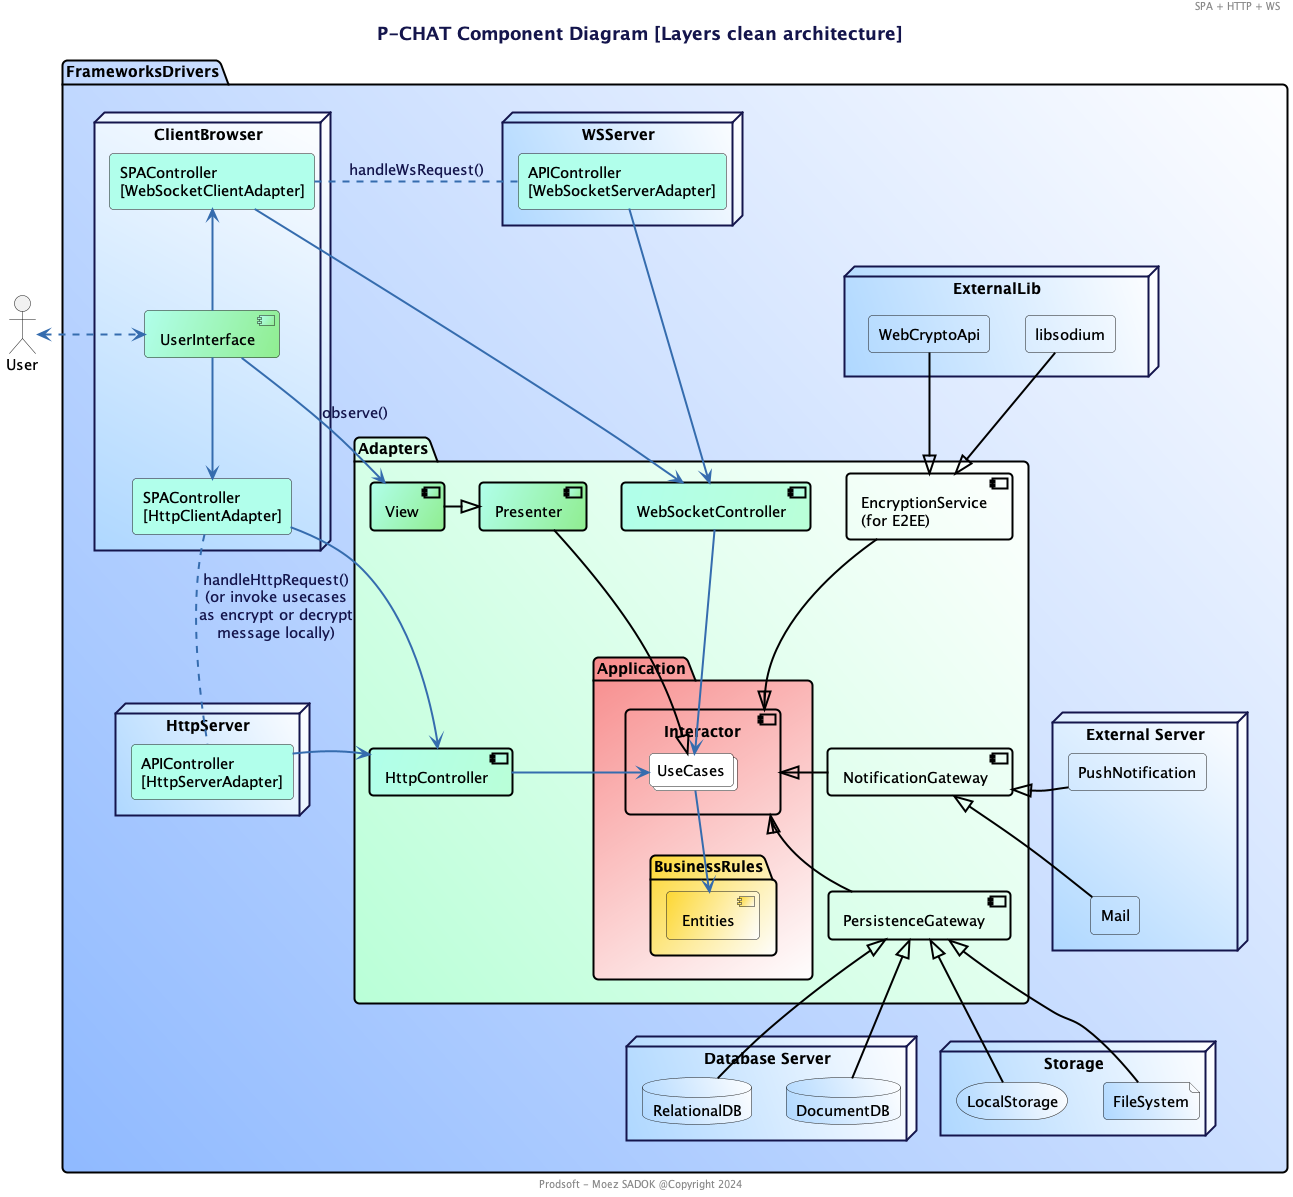
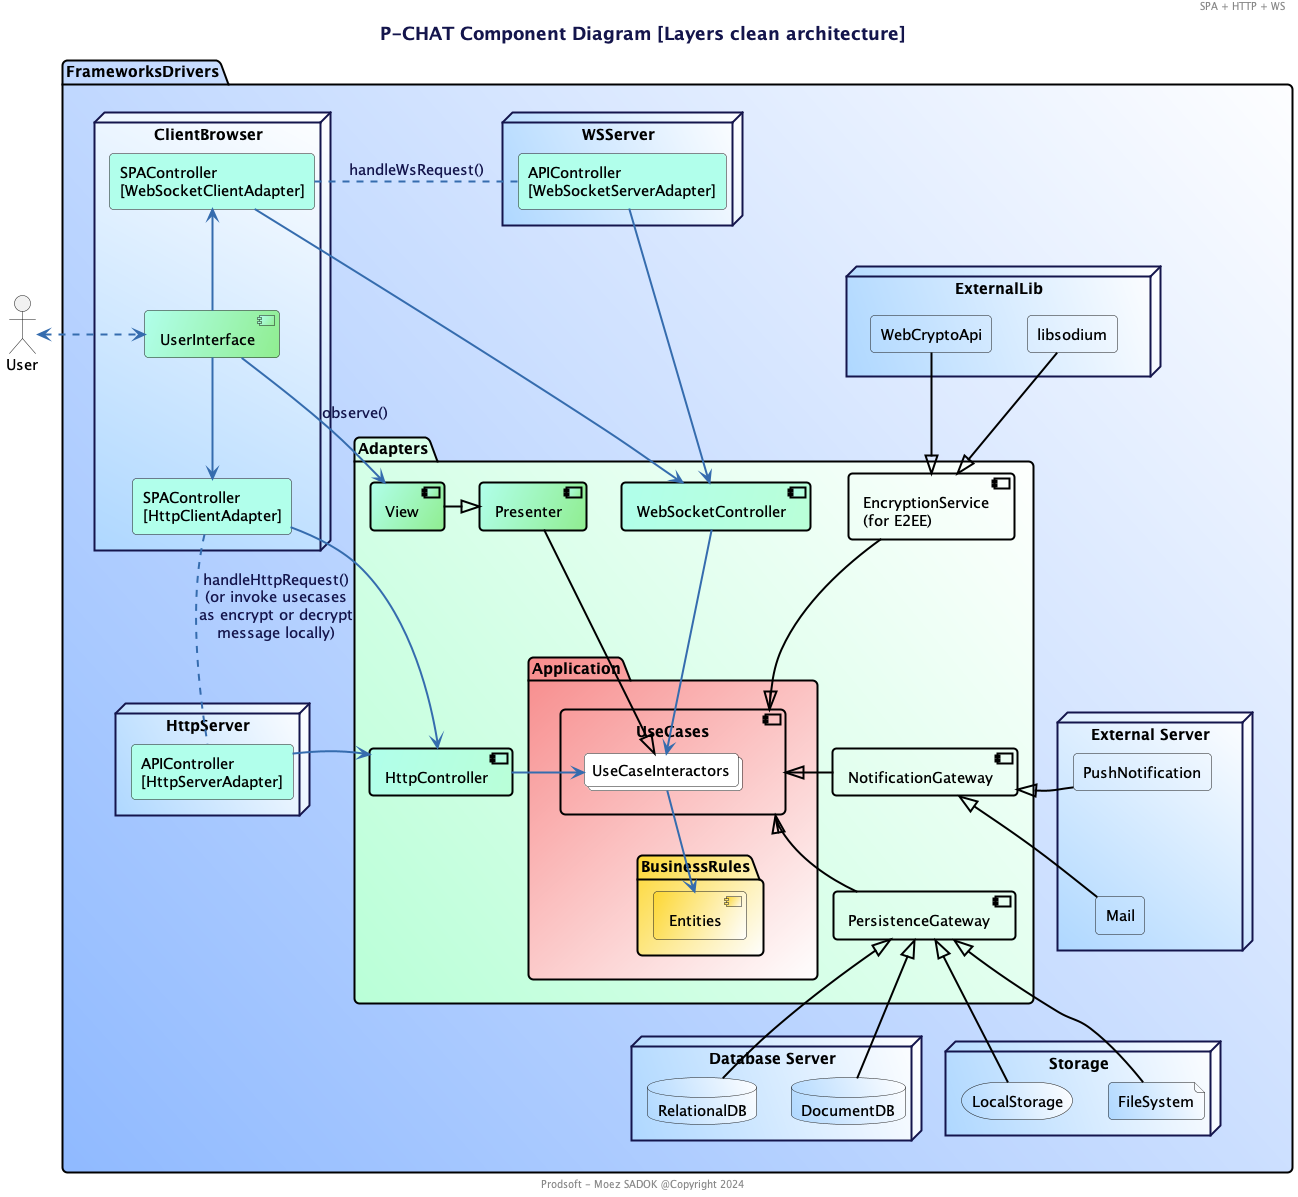
Update blog and docs

diff --git a/blog.html b/blog.html
@@ -1,0 +1,144 @@
+<h1>Building P‑CHAT: A Real-Time Chat App with Clean Architecture</h1>
+
+<p><em>An in-depth look at P‑CHAT’s structure, using Clean Architecture to build a scalable, testable, and secure chat system.</em></p>
+<hr/>
+
+<h2>🔰 Introduction</h2>
+<p><strong>P‑CHAT</strong> is a proof-of-concept for a real-time chat application developed with Clean Architecture principles. It combines a modern frontend (SPA) with a NestJS backend and supports HTTP, WebSocket, and end-to-end encryption (E2EE).</p>
+<p>The source code is available here: <a href="https://github.com/moez-sadok/chat-clean-architecture" target="_blank">github.com/moez-sadok/chat-clean-architecture</a></p>
+
+<h2>📚 References</h2>
+<p>
+The P‑CHAT architecture is inspired by the foundational principles described by <strong>Robert C. Martin (Uncle Bob)</strong>:
+</p>
+
+<p>
+🔗 <a href="https://blog.cleancoder.com/uncle-bob/2012/08/13/the-clean-architecture.html" target="_blank">
+The Clean Architecture – Uncle Bob (cleancoder.com)
+</a>
+<img src="https://blog.cleancoder.com/uncle-bob/images/2012-08-13-the-clean-architecture/CleanArchitecture.jpg" >
+</p>
+
+<h2>🧱 Component Diagram & Architecture Layers</h2>
+
+<p>The P‑CHAT architecture follows Clean Architecture by organizing code into clear concentric layers:</p>
+<img width="90%" src="https://raw.githubusercontent.com/moez-sadok/chat-clean-architecture/refs/heads/main/out/docs/design/app-components-diagram/app-components-diagram.png">
+
+
+<p>📌 Note: Color usage in the diagram follows a strict legend to visually separate Clean Architecture layers. This color coding respects the Clean Architecture convention and is consistently applied across all diagrams in the repository.</p>
+
+<ul>
+  <li><strong>Entities</strong> – Core business logic (e.g. Message, User, Room)</li>
+  <li><strong>Use Cases</strong> – Application-specific logic (e.g. send message, join room)</li>
+  <li><strong>Adapters</strong> – Controllers, Presenters, Gateways, Views</li>
+  <li><strong>Frameworks & Drivers</strong> – External technologies: database, storage, web server, crypto libraries</li>
+</ul>
+<p>This separation helps enforce dependency rules and keeps the system modular, scalable, and testable.</p>
+
+
+<h3>Entities</h3>
+
+
+<p>Entities like <code>Message</code>, <code>Participant</code>, and <code>Room</code> are the most abstract part of the application. They are free of dependencies and express core business rules.</p>
+<img width="90%" src="https://raw.githubusercontent.com/moez-sadok/chat-clean-architecture/refs/heads/main/out/docs/design/business-rules-entities-digram/business-rules-entities-digram.png"></omg>
+
+<p>📌 <strong>Design Note:</strong> The system uses the <strong>Mediator pattern</strong>, where the <strong>Room</strong> acts as the mediator coordinating message flow between <strong>Participants</strong> (colleagues).</p>
+
+<h2>🧠 Application Core (Use Cases)</h2>
+
+<p>
+In this architecture, each business operation is encapsulated within a dedicated <strong>UseCase Interactor</strong>, which serves as the execution unit for a specific application behavior — such as sending a message, joining a room, or get user rooms.
+</p>
+
+<img width="90%" src="https://raw.githubusercontent.com/moez-sadok/chat-clean-architecture/refs/heads/main/out/docs/design/app-componentes-usecase-adapters/app-componentes-usecase-adapters.png"></omg>
+
+<p><strong>📌 Note:</strong> While using the <code>I</code> prefix for interfaces (e.g., <code>IRepository</code>, <code>IPresenter</code>) is not generally recommended in modern software conventions, it is applied here intentionally to clarify the distinction between abstractions and implementations—especially in diagrams and educational contexts.</p>
+
+
+<p>
+The <strong>Usecase Interactor</strong> acts as the central coordinator, implementing the use case (InputPort / Requester) by:
+</p>
+<ul>
+  <li>Validating inputs received from controllers (HTTP or WebSocket),</li>
+  <li>Accessing and persisting data through the abstract <code>PersistenceGateway</code> (IRepository),</li>
+  <li>Applying domain logic by interacting with core <code>Entities</code>,</li>
+  <li>Formatting results via the <code>Presenter</code> (OututPort), which transforms the output into a UI-ready format consumed by the <code>View</code>.</li>
+</ul>
+
+<p>
+This design ensures that use cases remain independent of frameworks and interfaces, relying only on abstract ports. It reflects Uncle Bob’s Clean Architecture principle where the interactor 
+<em>“controls the flow of data to and from the entities, and directs the entities to use their enterprise-wide business rules.”</em>
+</p>
+
+<p>
+The result is a modular, testable, and extensible structure where the application layer is fully decoupled from infrastructure concerns like storage, network, or UI rendering.
+</p>
+
+
+
+<h3>Input and Output Boundaries</h3>
+<p>Controllers send data to the use cases through input boundaries, while output is returned through presenters. This enforces direction of dependencies from the outside-in.</p>
+
+<h2>🌐 HTTP Communication</h2>
+<p>P‑CHAT uses HTTP for key actions such as:</p>
+<ul>
+  <li>User login, logout, and authentication</li>
+  <li>Fetching room or message history</li>
+  <li>Sending messages (by default or when WebSocket is unavailable)</li>
+</ul>
+
+<p>The flow:</p>
+<ol>
+  <li>
+    The <strong>SPA client</strong> initiates a request using the <code>HttpClientAdapter</code>, typically via a service or effect (e.g. login, send message).
+  </li>
+  <li>
+    The request is received by the NestJS <strong><code>HttpServerAdapter</code></strong>, which serves as the transport-layer entry point on the backend.
+  </li>
+  <li>
+    The corresponding <strong>HTTP controller</strong> parses the incoming request and delegates the execution to the appropriate <code>UseCase</code> within the application layer.
+  </li>
+  <li>
+    Once the <code>UseCase</code> completes, a <strong><code>Presenter</code></strong> formats the result into a <code>ViewModel</code>—a structure optimized for frontend rendering.
+  </li>
+  <li>
+    The frontend’s <strong><code>View</code></strong> observes changes in the ViewModel, triggering UI updates, and the response is received via the <code>HttpClientAdapter</code>.
+  </li>
+</ol>
+
+<h2>🔄 WebSocket Communication</h2>
+WebSockets power full-duplex messaging:
+
+- Clients use WebSocketClientAdapter
+- Server responds via WebSocketServerAdapter
+- Use cases handle the logic via WebSocketController
+
+<h2>🔐 End-to-End Encryption (E2EE)</h2>
+<p>Before a message leaves the client, it is encrypted using browser-native APIs such as <code>WebCryptoApi</code> or third-party libs like <code>libsodium</code>.</p>
+<p>The <code>EncryptionService</code> handles this on the client side. The backend simply stores and routes encrypted data — it never sees the decrypted content.
+This design ensures strong privacy: only sender and recipient can decrypt messages.</p>
+
+<h2>🗃 Storage, Cache & Notifications</h2>
+<ul>
+  <li><strong>MongoDB/Sql</strong> is used for chat and user data persistence</li>
+  <li><strong>Redis</strong> supports state, pub/sub, and caching</li>
+  <li><strong>NotificationGateway</strong> connects to email or push systems</li>
+  <li><strong>LocalStorage</strong> and <strong>FileSystem</strong> are used for offline caching and storing local certificate files</li>
+</ul>
+
+<h2>🧩 Clean Architecture Benefits</h2>
+<ul>
+  <li><strong>Testability</strong>: You can test use cases without a server or database</li>
+  <li><strong>Independence</strong>: You can change the database, UI, or framework without touching core logic</li>
+  <li><strong>Modularity</strong>: Each component is isolated and follows SRP (Single Responsibility Principle)</li>
+  <li><strong>Flexibility</strong>: Add support for new transports like GraphQL, gRPC, or CLI easily</li>
+</ul>
+
+
+<h2>✅ Conclusion</h2>
+<p><strong>P‑CHAT</strong> proves that Clean Architecture is practical for modern, real-time apps with WebSockets, HTTP, and layered infrastructure.</p>
+<p>This foundation supports growth, team collaboration, and confidence in refactoring. By keeping business logic decoupled, the system is adaptable and testable at every layer.</p>
+
+<hr/>
+<p><strong>About the Author</strong><br/>
+Moez SADOK – Founder at <strong>Prodsoft</strong>, passionate about scalable software, modular design, and Clean Architecture in real-world projects.</p>

diff --git a/README.md b/README.md
@@ -8,7 +8,7 @@
 
 2. [Scope](#scope)
 
-   - [2.1 Use case diagram](use-case-diagram)
+   - [2.1 Use case diagram](#use-case-diagram)
    - [2.2 Main chat flow](#main-chat-flow)
 
 3. [Features](#features)
@@ -18,7 +18,7 @@
      - [b. BDD](#uc1-bbd)
      - [c. Specification](#uc1-specification)
      - [d. Sequence diagram](#uc1-sequence-diagram)
-     - [f. Wireframe](#uc1-server-cloud-cluster)
+     - [f. Wireframe](#uc1-wireframe)
 
 4. [Architecture ](#Architecture)
 
@@ -61,7 +61,9 @@ In addition, this POC aims to showcase the application of key software engineeri
 
 - UML diagrams for clear and maintainable documentation
 
-⚠ Note: This project is still actively being refactored and improved. Updates are made regularly to enhance code quality, structure, and architectural consistency.
+⚠ Note: This project is still actively being refactored and improved. Updates are made regularly to enhance documentation, code quality, structure, and architectural consistency.
+
+👉 See this article on our blog: [P‑CHAT and Clean Architecture](https://prodsoft.fr/en/2024/09/16/pchat-clean-architecture/)
 
 # 2. Scope <a id="scope"></a>
 
@@ -71,7 +73,7 @@ Manages chat rooms, message exchange, and real-time communication.
 <!-- Page-break For PDF generation -->
 <div style="page-break-after: always;"></div>
 
-## 2.1 Use case diagram
+## 2.1 Use case diagram <a id="use-case-diagram"></a>
 
 ![Use case diagram!](out/docs/design/app-use-cases/app-use-cases.png 'Global use case diagram')
 
@@ -83,7 +85,7 @@ Manages chat rooms, message exchange, and real-time communication.
 <!-- Page-break For PDF generation -->
 <div style="page-break-after: always;"></div>
 
-## 2.2 Main chat flow
+## 2.2 Main chat flow <a id="main-chat-flow"></a>
 
 This diagram represents a typical interaction scenario in the P-CHAT system involving three users within the same chat room. User1 and User2 are connected, while User3 is disconnected.
 
@@ -96,16 +98,16 @@ This diagram represents a typical interaction scenario in the P-CHAT system invo
 
 The core feature of the P-CHAT application is message sending within a chat room. This section provides a detailed overview of how the system handles this functionality from both a user and system perspective.
 
-## 3.1 Send message
+## 3.1 Send message <a id="uc1-send-message"></a>
 
-### a. Usecase diagram
+### a. Usecase diagram  <a id="uc1-sub-usecase-diagram"></a>
 
 ![Send message - Use case diagram!](out/docs/features/send-message/send-message-usecase-diagram/send-message-usecase-diagram.png 'Send message - Use case diagram')
 
 <!-- Page-break For PDF generation -->
 <div style="page-break-after: always;"></div>
 
-### b. Bdd
+### b. Bdd  <a id="uc1-bdd"></a>
 
 ```bash
 Feature: Send Message
@@ -136,50 +138,50 @@ Scenario: Offline receiver (disconnected)
 <!-- Page-break For PDF generation -->
 <div style="page-break-after: always;"></div>
 
-### c. Specification
+### c. Specification  <a id="uc1-specification"></a>
 
 ![Send message - Specification!](out/docs/features/send-message/send-message-specifications/send-message-specifications.png 'Send message - Specification')
 
 <!-- Page-break For PDF generation -->
 <div style="page-break-after: always;"></div>
 
-### d. Sequence diagram
+### d. Sequence diagram  <a id="uc1-sequence-diagram"></a>
 
 ![Send message - Sequence diagram!](out/docs/features/send-message/send-message-sequence/send-message-sequence.png 'Send message - Sequence diagram')
 
 <!-- Page-break For PDF generation -->
 <div style="page-break-after: always;"></div>
 
-### f. Wireframe
+### f. Wireframe <a id="uc1-wireframe"></a> 
 
 ![Send message - Wireframe!](out/docs/features/send-message/send-message-wireframe/MessageForm_Wireframe.png 'Send message - Wireframe')
 
 <!-- Page-break For PDF generation -->
 <div style="page-break-after: always;"></div>
 
-# Architecture 
+# Architecture  <a id="Architecture"></a> 
 
-   ## 4.1 Entites
+   ## 4.1 Entites <a id="entites"></a>
 
    ![Entites!](out/docs/design/business-rules-entities-digram/business-rules-entities-digram.png 'Entites')
 
 <!-- Page-break For PDF generation -->
 <div style="page-break-after: always;"></div>
 
-   ## 4.2 DB Relationships
+   ## 4.2 DB Relationships  <a id="db-relationships"></a>
 
    ![DB Relationships!](out/docs/design/data-relations-tables-digram/data-relations-tables-digram.png 'DB Relationships')
 
 <!-- Page-break For PDF generation -->
 <div style="page-break-after: always;"></div>
 
-   ##  4.3 Component diagram
-
-   - a. Component diagram
+   ##  4.3 Component diagram <a id="component-diagram"></a>
+ 
+   - a. Component diagram <a id="app-omponent-diagram"></a>
 
    ![Component diagram](out/docs/design/app-components-diagram/app-components-diagram.png 'Component diagram')
 
-   - b. Component interaction - Sequence diagram
+   - b. Component interaction - Sequence diagram <a id="interaction-component-diagram"></a>
 
  ![Component interaction diagram](out/docs/design/app-components-interaction-sequence-diagram-v1/app-components-interaction-sequence-diagram-v1.png 'Component interaction diagram')
 
@@ -244,7 +246,7 @@ All business rules are decoupled from the outside world.
 npm i
 ```
 
-### 5.4 Run locally
+### 5.4 Run locally  <a id="run-locally"></a>
 
 With client/server (websockt/http), open in different private tabs
 
@@ -291,7 +293,7 @@ Using bun:
    autocannon -c 10 -a 1000 -m POST http://localhost:3333/api/send-message --header 'Content-Type: application/json' --body '{ "roomId": "0", "userId": "1", "message": "perf message" }'
    ```
 
-### 5.6 Redis as adapter
+### 5.6 Redis as adapter  <a id="redis-as-adapter"></a>
 
 Many other tools harness the power of port/adapter architecture. For instance, Redis enables the creation and connection of a multi-chat server to support millions of connected users with just three lines of code.
 
@@ -315,7 +317,7 @@ To install Redis, please check the official Redis website and see also [NestJS W
 redis-server
 ```
 
-### 5.7 Code Scaffolding
+### 5.7 Code Scaffolding  <a id="code-scaffolding"></a>
 
 Using Nx console vs code extension or cli:
 
@@ -328,10 +330,6 @@ npx nx generate @nx/nest:application chat/chat-server-main-api --frontendProject
 Generate lib:
 
 ```bash
-npx nx generate @nx/workspace:library chat/entreprise-business-rules/notifiyer
-npx nx generate @nx/workspace:library chat/application-business-rules/network
-npx nx generate @nx/workspace:library chat/adapters/network
-
 npx nx generate @nx/js:library libs/chat/drivers/socketIo/client
 npx nx generate @nx/js:library libs/chat/drivers/socketIo/server
 ```

diff --git a/todo.md b/todo.md
@@ -1,26 +1,42 @@
-
 ## TODO
-- Enhance documentation
-- Add mongo db or mysql (as second db test)
-- Add graphql  (as second api test)
-- Add react for the ui (as second ui Framework test)
-- Add uml diagrams 
-- Make an  adapter for websoket socket (client) (for IClientUser) CleintEmmiter and apply new design as chat service (apply the new target uml diagram)
+
+- Enhance documentation. (DDD style)
+- Enhance naming and structure (UseCaseInteractor --|> UseCase), no interactor folder on usecases
+- Apply the complete flow (`UseCase -> Presenter`) as discussed below for all use cases.
+- Add MongoDB or MySQL as a second database for testing.
+- Add GraphQL as a second API for testing.
+- Add a React version of the UI (as an alternative front-end framework).
+- Add UML diagrams.
+- Add End-to-End Encryption (E2EE).
+- Implement a WebSocket client adapter (`IClientUser`, `ClientEmitter`, `ChatService`) and apply the new design based on the updated chat service (see the target UML diagram.)
+- Review NX use (packages restriction by layers)
 
 ## DONE
-- Split interactor facade to usecases (ISP & SRP)
-- Add a use case from scratch using TDD (testing using jest)
-- Make redis adapter optional (use native ws to run in stackblitz)
-- Replace the main config in nestjs api by the DI
-- Replace the front-end interactor (by controller / presenter facade)
-- Comment unused interfaces methods
 
-## Disscutions
-- Check the communication model for http: 2 solutions ( app/controller facade (used in the back-end) book-p237 or relation controller / presenter (used in the front-end part) book-p72) (both are used) https://softwareengineering.stackexchange.com/questions/357052/clean-architecture-use-case-containing-the-presenter-or-returning-data
+- Clean old layers version (based on a lib by component)
+- Split Interactor Facade into individual Use Cases (applying ISP & SRP).
+- Add a new use case from scratch using TDD (with Jest tests).
+- Make the Redis adapter optional (fallback to native WebSocket for StackBlitz compatibility).
+- Replace NestJS API main config with dependency injection (DI).
+- Replace front-end interactor with a Controller/Presenter Facade.
+- Comment out unused interface methods.
 
-- GetMessagePresenter resuablity (UseCaseX -invoque-> UseCaseYPrenter) : https://stackoverflow.com/questions/28892833/clean-architecture-robert-martin-how-to-connect-use-cases/28929194#28929194
+## Discussions
 
-- Muli screen case (not used in this projet) : https://softwareengineering.stackexchange.com/questions/403579/clean-architecture-use-case-spanning-multiple-ui-elements
+- **HTTP communication model**  
+  Two solutions are possible:  
+  - `App -> Controller Facade` (used in the back-end) [Book, p. 237]  
+  - `Controller -> Presenter` (used in the front-end) [Book, p. 72]  
+  Both patterns are used in the project.  
+  🔗 https://softwareengineering.stackexchange.com/questions/357052/clean-architecture-use-case-containing-the-presenter-or-returning-data
 
+- **Presenter reusability**  
+  Can a presenter be reused across use cases?  
+  Example: `UseCaseX -> invokes -> UseCaseYPresenter`  
+  🔗 https://stackoverflow.com/questions/28892833/clean-architecture-robert-martin-how-to-connect-use-cases/28929194#28929194
 
-- Clearness receivemessageusecase ? (connectuser -include-> receiveNewMessage)
+- **Multi-screen case** *(not currently used in this project)*  
+  🔗 https://softwareengineering.stackexchange.com/questions/403579/clean-architecture-use-case-spanning-multiple-ui-elements
+
+- **Clarification on `ReceiveMessageUseCase`**  
+  Should `ConnectUserUseCase` include `ReceiveNewMessageUseCase`?
